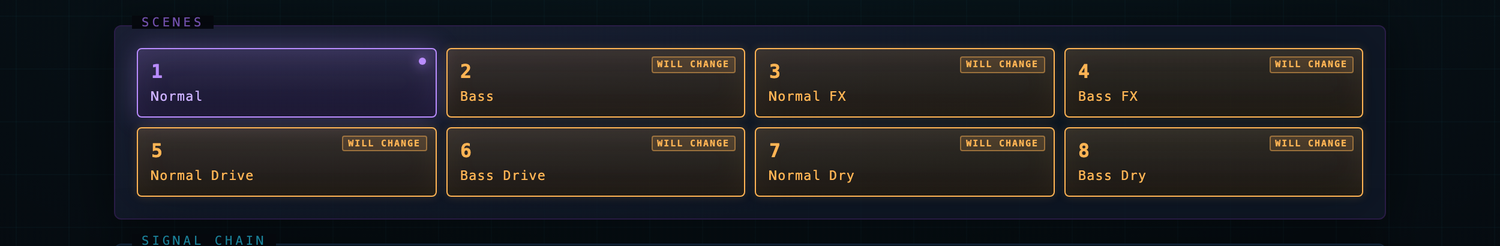
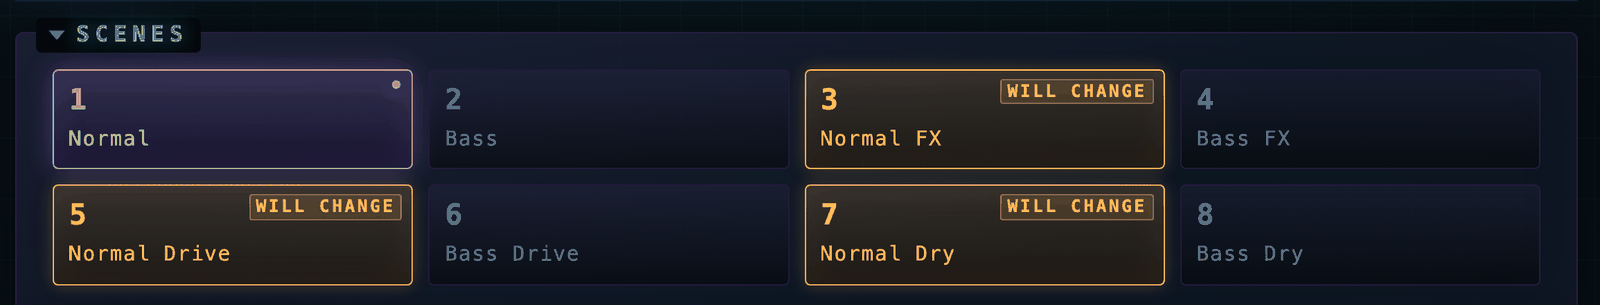
Refresh the screenshots, and two for features that had none
Every UI shot on the README was from before 0.5.0: the old single tone panel,
the old type scale, no graphic EQ, no badges. Added a shot of the EQ and one of
the three states that answer "why did that change do nothing", which is the
feature hardest to explain in prose and easiest to show.

The blast radius shot is real: the plan box was driven locally with an actual
amp mid change, so the scenes lit are the ones this rig would genuinely also
move. The health scan is a real scan of a real preset. The EQ curve was written
to the edit buffer for the shot and flattened again after, ten bands verified
each way.

Quantised to 256 colours on the way out. The UI is a dark ground with two
accent hues, so it costs nothing visible and turns a megabyte of PNG into a
couple of hundred kilobytes, which matters on a phone.

Two things the screenshots caught, both invisible until the page was rendered
at the size people actually read it:

- the audition popover footer wrapped "331 of" / "331" onto two lines and
  clipped the filter placeholder mid sentence, an artefact of the type scale
  going up. Widened, and the count no longer breaks.
- ui_probe died mid health scan on the websocket keepalive. The rig did the
  work and the probe never saw the result, which is the exact failure mode a
  verification tool must not have. Keepalive off: the operations worth probing
  are the slow ones.

Changed region(s): [[0.0, 0.0569, 0.9813, 1.0], [0.0307, 0.0, 0.9813, 0.0285]]

diff --git a/ui/index.html b/ui/index.html
@@ -661,7 +661,10 @@
      the dropdown opened once and then threw for the rest of the session.
      Positioned from the button's rect instead, left edge aligned to it. */
   /* Wider than the preset popover: these rows carry a sentence, not a name. */
-  #audpop { position: fixed; width: 460px; right: auto; }
+  /* Widened with the type scale. At 460px the count wrapped to "331 of" /
+     "331" and the filter placeholder clipped mid-sentence, both of which
+     appeared the moment the text got big enough to read. */
+  #audpop { position: fixed; width: 520px; right: auto; }
   .audtitle { font-size: var(--fs-label); letter-spacing: 0.2em; color: var(--cyan-dim);
               margin-bottom: 7px; }
   .audhead { display: flex; gap: 6px; align-items: center; margin-bottom: 7px; }
@@ -683,9 +686,13 @@
   }
   .prow { flex-wrap: wrap; }
   .audfoot { display: flex; justify-content: space-between; align-items: center;
-             gap: 8px; margin-top: 7px; padding-top: 7px;
+             gap: 12px; margin-top: 7px; padding-top: 7px;
              border-top: 1px solid var(--line); color: var(--dim);
              font-size: var(--fs-label); letter-spacing: 0.05em; }
+  /* "331 of 331" is one fact and reads as nonsense broken over two lines. It
+     is also the short half, so the hint is the one that gives way. */
+  #audcount { flex: 0 0 auto; white-space: nowrap; }
+  .audfoot > span:last-child { min-width: 0; text-align: right; }
 
   /* Saving is the only destructive thing this tool does, so it gets its own
      panel, an explicit list of slots the owner designated, and a confirmation

diff --git a/tools/ui_probe.py b/tools/ui_probe.py
@@ -116,7 +116,12 @@ class Tab:
         tabs = [t for t in _devtools() if t["type"] == "page"]
         if not tabs:
             sys.exit("no page target in chrome")
-        return websockets.connect(tabs[0]["webSocketDebuggerUrl"], max_size=64 << 20)
+        # ping_interval=None because the operations worth probing are the slow
+        # ones. A health scan walks eight scenes and takes the better part of a
+        # minute, and the library's 20s keepalive killed the connection
+        # mid-scan: the rig did the work, the probe never saw the result.
+        return websockets.connect(tabs[0]["webSocketDebuggerUrl"],
+                                  max_size=64 << 20, ping_interval=None)
 
     async def send(self, method: str, **params):
         self.n += 1

diff --git a/README.md b/README.md
@@ -11,7 +11,7 @@ Balance era tone with the flanger on the expression pedal", review the exact
 parameter changes it proposes, confirm, and they land on the hardware over
 USB MIDI with read-back verification.
 
-![The ToneCommand interface: scenes, the live routing grid, the command bar and the tone panel](docs/img/ui-full.png)
+![The ToneCommand interface: scenes, the live routing grid, the command bar, the amp and cab panel and the graphic EQ](docs/img/ui-full.png)
 
 *Everything above is live from a connected FM9. The cyan path is the signal
 actually reaching the output; the dashed blocks are bypassed but still passing
@@ -62,9 +62,57 @@ cabs, searchable by name **and** by what the cab actually is, because
 Every step loads on the unit and is covered by UNDO, because an audition you
 cannot back out of is a trap rather than a feature.
 
+### A graphic EQ drawn the way one looks
+
+![The graphic EQ: ten vertical faders over a range strip, with a curve picker and FLATTEN ALL](docs/img/graphic-eq.png)
+
+Ten horizontal rows of numbers is a spreadsheet of an EQ, not an EQ. The point
+of the control is that the curve is a **shape** you read at a glance, and every
+musician already knows how to read it. So: faders standing up, zero a line
+across the middle, the whole width of its own panel.
+
+Seven starting curves and one click back to flat. A curve is written as a
+single batch, so it takes one undo snapshot and cannot land half applied.
+Those curves are ones this project drew, not FM9 factory settings, and the
+panel says so.
+
+The bands are **numbered**, not labelled with frequencies. `GEQ_TYPE` is an
+eighteen-value enum selecting the band layout and the catalogue carries one
+label per parameter, so those frequencies cannot all be right for the EQ you
+have loaded, and they are neither ascending nor unique. The strip underneath
+names the region instead, which is true of every graphic EQ ever built.
+
+### Why did that change do nothing?
+
+![Bypassed blocks badged, a modifier-driven parameter naming its source, and P2 buttons on every bindable row](docs/img/pedal-and-bypass.png)
+
+The most misleading thing a tone tool can say is "verified" about a change you
+cannot hear. There are two ways to get one, and this shows both.
+
+**A bypassed block** is not in the signal, so a write to it lands, verifies by
+read-back, and changes nothing. The signal chain always drew those dashed; the
+parameter panels did not know at all, and gave a switched-off block a full set
+of live-looking sliders. Now they carry a badge, and the badge is also the fix:
+one click engages the block.
+
+**A modifier-driven parameter** is worse, because the FM9 sources its value
+from a pedal or an envelope and the number stored on the block stops mattering.
+Those rows name what drives them and are not draggable. This is also the only
+honest answer to "is that a pedal wah or an auto wah": the FM9 has no auto-wah
+type, so a wah is whatever its sweep is attached to. Read the attachment and
+the question answers itself.
+
+Hover any continuous row for **P2** to put it under Pedal 2, several at once if
+you like, one modifier slot each. The binding clones its curve off a slot the
+device itself built rather than inventing one, and it never claims the sweep
+works: live modulation is invisible to every read the protocol offers, and a
+dead binding reads byte-identical to a live one. Check it with your foot.
+
+Pedal 1 is your global volume and is never referenced, in either direction.
+
 ### Blast radius
 
-![Seven scenes lit amber with WILL CHANGE badges](docs/img/blast-radius.png)
+![Three scenes lit amber with WILL CHANGE badges, beside the one you are standing in](docs/img/blast-radius.png)
 
 FM9 parameters live on the **channel**, not on the scene. Turning up the mid in
 scene 1 moves every other scene sharing that channel, which is the single
